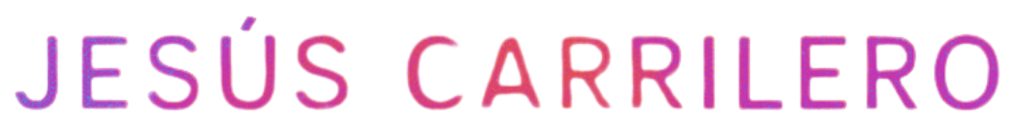
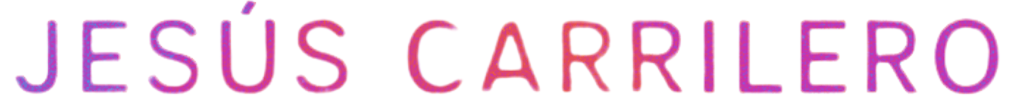
Actualización: Educación, Certificaciones, Corrección de Idioma y Diseño del Header

diff --git a/index.html b/index.html
@@ -30,15 +30,18 @@
                 </a>
                 <img src="assets/img/rotulo.png" alt="Jesús Carrilero Rótulo" class="rotulo-img">
             </div>
-            <nav class="main-nav">
-                <a href="#home" class="nav-link" data-lang-es="Inicio" data-lang-en="Home">Inicio</a>
-                <a href="#about" class="nav-link" data-lang-es="Sobre Mí" data-lang-en="About">Sobre Mí</a>
-                <a href="#education" class="nav-link" data-lang-es="Educación" data-lang-en="Education">Educación</a>
-                <a href="#skills" class="nav-link" data-lang-es="Habilidades" data-lang-en="Skills">Habilidades</a>
-                <a href="#experience" class="nav-link" data-lang-es="Experiencia" data-lang-en="Experience">Experiencia</a>
-                <a href="#projects" class="nav-link" data-lang-es="Proyectos" data-lang-en="Projects">Proyectos</a>
-                <a href="#contact" class="nav-link" data-lang-es="Contacto" data-lang-en="Contact">Contacto</a>
-            </nav>
+            <div class="nav-container">
+                <nav class="main-nav">
+                    <a href="#home" class="nav-link" data-lang-es="Inicio" data-lang-en="Home">Inicio</a>
+                    <a href="#about" class="nav-link" data-lang-es="Sobre Mí" data-lang-en="About">Sobre Mí</a>
+                    <a href="#education" class="nav-link" data-lang-es="Educación" data-lang-en="Education">Educación</a>
+                    <a href="#certifications" class="nav-link" data-lang-es="Certificaciones" data-lang-en="Certifications">Certificaciones</a>
+                    <a href="#skills" class="nav-link" data-lang-es="Habilidades" data-lang-en="Skills">Habilidades</a>
+                    <a href="#experience" class="nav-link" data-lang-es="Experiencia" data-lang-en="Experience">Experiencia</a>
+                    <a href="#projects" class="nav-link" data-lang-es="Proyectos" data-lang-en="Projects">Proyectos</a>
+                    <a href="#contact" class="nav-link" data-lang-es="Contacto" data-lang-en="Contact">Contacto</a>
+                </nav>
+            </div>
             <div class="header-controls">
                 <div class="language-selector">
                     <button class="lang-btn" data-lang="es">
@@ -62,7 +65,7 @@
     <section id="home" class="hero-section">
         <div class="container">
             <div class="hero-content">
-                <img src="assets/img/profile.jpg" alt="Jesús Carrilero" class="profile-img fade-in">
+                <img src="assets/img/profile.jpeg" alt="Jesús Carrilero" class="profile-img fade-in">
                 <h1 class="hero-title fade-in" data-lang-es="Hola, soy Jesús Carrilero" data-lang-en="Hi, I'm Jesús Carrilero">Hola, soy Jesús Carrilero</h1>
                 <p class="hero-subtitle fade-in" data-lang-es="Desarrollador Full-Stack | Experto en Automatizaciones e IA" data-lang-en="Full-Stack Developer | Expert in Automation and AI">Desarrollador Full-Stack | Experto en Automatizaciones e IA</p>
                 <a href="#projects" class="btn btn-primary fade-in" data-lang-es="Ver Proyectos" data-lang-en="View Projects">Ver Proyectos</a>
@@ -75,8 +78,8 @@
         <div class="container">
             <h2 class="section-title fade-in" data-lang-es="Sobre Mí" data-lang-en="About Me">Sobre Mí</h2>
             <div class="about-content fade-in">
-                <p data-lang-es="Soy un desarrollador Full-Stack con más de 5 años de experiencia en el desarrollo de aplicaciones web modernas y escalables. Me apasiona resolver problemas complejos, aprender nuevas tecnologías y crear soluciones innovadoras que impacten positivamente a los usuarios. Estoy especializado en tecnologías como React, Node.js y MongoDB, y tengo experiencia trabajando en equipos ágiles en entornos profesionales. Además, soy experto en automatizaciones y herramientas de IA, utilizando herramientas como n8n y Make para optimizar flujos de trabajo, y he implementado soluciones de IA con Python y herramientas como ChatGPT para mejorar procesos empresariales." data-lang-en="I am a Full-Stack Developer with over 5 years of experience in building modern and scalable web applications. I am passionate about solving complex problems, learning new technologies, and creating innovative solutions that positively impact users. I specialize in technologies like React, Node.js, and MongoDB, and have experience working in agile teams in professional environments. Additionally, I am an expert in automation and AI tools, using platforms like n8n and Make to streamline workflows, and I have implemented AI solutions with Python and tools like ChatGPT to enhance business processes.">
-                    Soy un desarrollador Full-Stack con más de 5 años de experiencia en el desarrollo de aplicaciones web modernas y escalables. Me apasiona resolver problemas complejos, aprender nuevas tecnologías y crear soluciones innovadoras que impacten positivamente a los usuarios. Estoy especializado en tecnologías como React, Node.js y MongoDB, y tengo experiencia trabajando en equipos ágiles en entornos profesionales. Además, soy experto en automatizaciones y herramientas de IA, utilizando herramientas como n8n y Make para optimizar flujos de trabajo, y he implementado soluciones de IA con Python y herramientas como ChatGPT para mejorar procesos empresariales.
+                <p data-lang-es="Soy un desarrollador Full-Stack con más de 5 años de experiencia en el desarrollo de aplicaciones web modernas y escalables. Me apasiona resolver problemas complejos, aprender nuevas tecnologías y crear soluciones innovadoras que impacten positivamente a los usuarios. Estoy especializado en tecnologías como React, Node.js y MongoDB, y tengo experiencia trabajando en equipos ágiles en entornos profesionales. Además, soy experto en automatizaciones y herramientas de IA, utilizando herramientas como n8n y Make para optimizar flujos de trabajo, y he implementado soluciones de IA con Python y herramientas como ChatGPT para mejorar procesos empresariales. También he explorado la intersección entre tecnología y trading, aplicando mis conocimientos en automatización para optimizar estrategias de trading." data-lang-en="I am a Full-Stack Developer with over 5 years of experience in building modern and scalable web applications. I am passionate about solving complex problems, learning new technologies, and creating innovative solutions that positively impact users. I specialize in technologies like React, Node.js, and MongoDB, and have experience working in agile teams in professional environments. Additionally, I am an expert in automation and AI tools, using platforms like n8n and Make to streamline workflows, and I have implemented AI solutions with Python and tools like ChatGPT to enhance business processes. I have also explored the intersection of technology and trading, applying my automation skills to optimize trading strategies.">
+                    Soy un desarrollador Full-Stack con más de 5 años de experiencia en el desarrollo de aplicaciones web modernas y escalables. Me apasiona resolver problemas complejos, aprender nuevas tecnologías y crear soluciones innovadoras que impacten positivamente a los usuarios. Estoy especializado en tecnologías como React, Node.js y MongoDB, y tengo experiencia trabajando en equipos ágiles en entornos profesionales. Además, soy experto en automatizaciones y herramientas de IA, utilizando herramientas como n8n y Make para optimizar flujos de trabajo, y he implementado soluciones de IA con Python y herramientas como ChatGPT para mejorar procesos empresariales. También he explorado la intersección entre tecnología y trading, aplicando mis conocimientos en automatización para optimizar estrategias de trading.
                 </p>
             </div>
         </div>
@@ -88,11 +91,38 @@
             <h2 class="section-title fade-in" data-lang-es="Educación" data-lang-en="Education">Educación</h2>
             <div class="education-list">
                 <div class="education-item fade-in">
-                    <img src="https://images.unsplash.com/photo-1600585154340-be6161a56a0c?ixlib=rb-4.0.3&auto=format&fit=crop&w=100&h=100&q=80" alt="Universidad de Castilla-La Mancha" class="education-img">
+                    <img src="https://images.unsplash.com/photo-1600585154340-be6161a56a0c?ixlib=rb-4.0.3&auto=format&fit=crop&w=100&h=100&q=80" alt="Universae" class="education-img">
                     <div class="education-content">
-                        <h3 class="education-title" data-lang-es="Grado en Ingeniería Informática" data-lang-en="Bachelor's Degree in Computer Engineering">Grado en Ingeniería Informática</h3>
-                        <p class="education-institution">Universidad de Castilla-La Mancha, Albacete</p>
-                        <p class="education-date">2014 - 2018</p>
+                        <h3 class="education-title" data-lang-es="Ciclo Formativo de Grado Superior en Desarrollo de Aplicaciones Multiplataforma y Desarrollo de Aplicaciones Web" data-lang-en="Higher Vocational Training in Multiplatform Application Development and Web Application Development">Ciclo Formativo de Grado Superior en Desarrollo de Aplicaciones Multiplataforma y Desarrollo de Aplicaciones Web</h3>
+                        <p class="education-institution" data-lang-es="Universae, Albacete" data-lang-en="Universae, Albacete">Universae, Albacete</p>
+                        <p class="education-date" data-lang-es="2018 - 2020" data-lang-en="2018 - 2020">2018 - 2020</p>
+                    </div>
+                </div>
+            </div>
+        </div>
+    </section>
+
+    <!-- Certifications Section -->
+    <section id="certifications" class="certifications-section">
+        <div class="container">
+            <h2 class="section-title fade-in" data-lang-es="Certificaciones" data-lang-en="Certifications">Certificaciones</h2>
+            <div class="certifications-list">
+                <div class="certification-item fade-in">
+                    <img src="https://images.unsplash.com/photo-1666875753105-c43a6fb62548?ixlib=rb-4.0.3&auto=format&fit=crop&w=100&h=100&q=80" alt="Tradeando.net" class="certification-img">
+                    <div class="certification-content">
+                        <h3 class="certification-title" data-lang-es="Curso de Swing Trading" data-lang-en="Swing Trading Course">Curso de Swing Trading</h3>
+                        <p class="certification-institution" data-lang-es="Tradeando.net" data-lang-en="Tradeando.net">Tradeando.net</p>
+                        <p class="certification-date" data-lang-es="2022" data-lang-en="2022">2022</p>
+                        <p class="certification-desc" data-lang-es="Aprendí estrategias de Swing Trading y cómo automatizar procesos de análisis de mercado utilizando herramientas como Python." data-lang-en="Learned Swing Trading strategies and how to automate market analysis processes using tools like Python.">Aprendí estrategias de Swing Trading y cómo automatizar procesos de análisis de mercado utilizando herramientas como Python.</p>
+                    </div>
+                </div>
+                <div class="certification-item fade-in">
+                    <img src="https://images.unsplash.com/photo-1666875753105-c43a6fb62548?ixlib=rb-4.0.3&auto=format&fit=crop&w=100&h=100&q=80" alt="Tradeando.net" class="certification-img">
+                    <div class="certification-content">
+                        <h3 class="certification-title" data-lang-es="Curso de Trading Intradía" data-lang-en="Intraday Trading Course">Curso de Trading Intradía</h3>
+                        <p class="certification-institution" data-lang-es="Tradeando.net" data-lang-en="Tradeando.net">Tradeando.net</p>
+                        <p class="certification-date" data-lang-es="2022" data-lang-en="2022">2022</p>
+                        <p class="certification-desc" data-lang-es="Adquirí habilidades en trading intradía y exploré la automatización de operaciones mediante scripts personalizados." data-lang-en="Acquired skills in intraday trading and explored automation of trading operations using custom scripts.">Adquirí habilidades en trading intradía y exploré la automatización de operaciones mediante scripts personalizados.</p>
                     </div>
                 </div>
             </div>
@@ -161,8 +191,8 @@
                     <img src="https://images.unsplash.com/photo-1516321318423-f06f85e504b3?ixlib=rb-4.0.3&auto=format&fit=crop&w=100&h=100&q=80" alt="Tech Solutions" class="experience-img">
                     <div class="experience-content">
                         <h3 class="experience-title" data-lang-es="Desarrollador Full-Stack" data-lang-en="Full-Stack Developer">Desarrollador Full-Stack</h3>
-                        <p class="experience-company">Tech Solutions</p>
-                        <p class="experience-date">2020 - Presente</p>
+                        <p class="experience-company" data-lang-es="Tech Solutions" data-lang-en="Tech Solutions">Tech Solutions</p>
+                        <p class="experience-date" data-lang-es="2020 - Presente" data-lang-en="2020 - Present">2020 - Presente</p>
                         <p class="experience-desc" data-lang-es="Lideré el desarrollo de aplicaciones web escalables utilizando React y Node.js, integrando APIs y optimizando el rendimiento. Implementé automatizaciones con n8n y Make para mejorar procesos internos, y utilicé herramientas de IA como ChatGPT para optimizar flujos de trabajo." data-lang-en="Led the development of scalable web applications using React and Node.js, integrating APIs and optimizing performance. Implemented automations with n8n and Make to improve internal processes, and used AI tools like ChatGPT to optimize workflows.">
                             Lideré el desarrollo de aplicaciones web escalables utilizando React y Node.js, integrando APIs y optimizando el rendimiento. Implementé automatizaciones con n8n y Make para mejorar procesos internos, y utilicé herramientas de IA como ChatGPT para optimizar flujos de trabajo.
                         </p>
@@ -172,8 +202,8 @@
                     <img src="https://images.unsplash.com/photo-1519389950473-47ba0277781c?ixlib=rb-4.0.3&auto=format&fit=crop&w=100&h=100&q=80" alt="Web Innovate" class="experience-img">
                     <div class="experience-content">
                         <h3 class="experience-title" data-lang-es="Desarrollador Frontend" data-lang-en="Frontend Developer">Desarrollador Frontend</h3>
-                        <p class="experience-company">Web Innovate</p>
-                        <p class="experience-date">2018 - 2020</p>
+                        <p class="experience-company" data-lang-es="Web Innovate" data-lang-en="Web Innovate">Web Innovate</p>
+                        <p class="experience-date" data-lang-es="2018 - 2020" data-lang-en="2018 - 2020">2018 - 2020</p>
                         <p class="experience-desc" data-lang-es="Desarrollé interfaces de usuario interactivas con Vue.js y optimicé la experiencia del usuario mediante pruebas A/B. Colaboré en la integración de servicios backend con REST APIs." data-lang-en="Developed interactive user interfaces with Vue.js and optimized user experience through A/B testing. Collaborated on integrating backend services with REST APIs.">
                             Desarrollé interfaces de usuario interactivas con Vue.js y optimicé la experiencia del usuario mediante pruebas A/B. Colaboré en la integración de servicios backend con REST APIs.
                         </p>
@@ -231,7 +261,7 @@
                     <p><i class="fas fa-map-marker-alt"></i> Albacete, España</p>
                     <p><i class="fas fa-phone"></i> +34 616 460 352</p>
                     <p><i class="fas fa-envelope"></i> jesuscarrilero3@gmail.com</p>
-                    <p><i class="fab fa-linkedin"></i> <a href="https://linkedin.com/in/tu-perfil" target="_blank">LinkedIn</a></p>
+                    <p><i class="fab fa-linkedin"></i> <a href="https://linkedin.com/in/tu-perfil" target="_blank" data-lang-es="LinkedIn" data-lang-en="LinkedIn">LinkedIn</a></p>
                 </div>
                 <div class="contact-form fade-in">
                     <div class="form-group">

diff --git a/assets/css/styles.css b/assets/css/styles.css
@@ -60,6 +60,7 @@ body.dark .header {
     display: flex;
     align-items: center;
     gap: 15px;
+    margin-left: -10px; /* Mueve el logo y rótulo más a la izquierda */
 }
 
 .logo {
@@ -70,9 +71,23 @@ body.dark .header {
     max-height: 40px;
 }
 
+.nav-container {
+    flex-grow: 1;
+    display: flex;
+    justify-content: center;
+}
+
 .main-nav {
     display: flex;
     gap: 25px;
+    background-color: rgba(0, 123, 255, 0.05);
+    padding: 10px 20px;
+    border-radius: 25px;
+    box-shadow: 0 2px 5px rgba(0, 0, 0, 0.05);
+}
+
+body.dark .main-nav {
+    background-color: rgba(102, 176, 255, 0.1);
 }
 
 .nav-link {
@@ -113,6 +128,7 @@ body.dark .nav-link::after {
     display: flex;
     align-items: center;
     gap: 15px;
+    margin-right: -10px; /* Mueve los controles más a la derecha */
 }
 
 .language-selector {
@@ -326,6 +342,81 @@ body.dark .education-institution {
 
 body.dark .education-date {
     color: #888;
+}
+
+/* Certifications Section */
+.certifications-section {
+    padding: 80px 0;
+    background-color: #fff;
+}
+
+body.dark .certifications-section {
+    background-color: #2c2c2c;
+}
+
+.certifications-list {
+    display: flex;
+    flex-direction: column;
+    gap: 30px;
+}
+
+.certification-item {
+    display: flex;
+    align-items: center;
+    background-color: #f5f5f5;
+    border-radius: 10px;
+    padding: 20px;
+    box-shadow: 0 4px 15px rgba(0, 0, 0, 0.1);
+}
+
+body.dark .certification-item {
+    background-color: #3a3a3a;
+}
+
+.certification-img {
+    width: 100px;
+    height: 100px;
+    border-radius: 50%;
+    margin-right: 20px;
+    object-fit: cover;
+}
+
+.certification-content {
+    flex: 1;
+}
+
+.certification-title {
+    font-size: 24px;
+    font-weight: 600;
+    margin-bottom: 5px;
+}
+
+.certification-institution {
+    font-size: 18px;
+    color: #666;
+    margin-bottom: 5px;
+}
+
+body.dark .certification-institution {
+    color: #b0b0b0;
+}
+
+.certification-date {
+    font-size: 16px;
+    color: #999;
+    margin-bottom: 10px;
+}
+
+body.dark .certification-date {
+    color: #888;
+}
+
+.certification-desc {
+    color: #666;
+}
+
+body.dark .certification-desc {
+    color: #b0b0b0;
 }
 
 /* Skills Section */
@@ -719,6 +810,21 @@ body.dark .back-to-top {
         display: block;
     }
 
+    .header .container {
+        flex-wrap: wrap;
+    }
+
+    .nav-container {
+        width: 100%;
+        justify-content: flex-start;
+    }
+
+    .main-nav {
+        background-color: transparent;
+        box-shadow: none;
+        padding: 0;
+    }
+
     .hero-section {
         padding-top: 100px;
     }
@@ -739,6 +845,7 @@ body.dark .back-to-top {
     .logo-container {
         flex-direction: column;
         gap: 5px;
+        margin-left: 0;
     }
 
     .logo,
@@ -746,14 +853,20 @@ body.dark .back-to-top {
         max-height: 30px;
     }
 
+    .header-controls {
+        margin-right: 0;
+    }
+
     .experience-item,
-    .education-item {
+    .education-item,
+    .certification-item {
         flex-direction: column;
         text-align: center;
     }
 
     .experience-img,
-    .education-img {
+    .education-img,
+    .certification-img {
         margin: 0 auto 20px;
     }
 

diff --git a/assets/js/language.js b/assets/js/language.js
@@ -17,6 +17,9 @@ document.addEventListener('DOMContentLoaded', () => {
                 // Dispatch language change event for CV link update
                 const event = new CustomEvent('languageChange', { detail: lang });
                 document.dispatchEvent(event);
+
+                // Update HTML lang attribute
+                document.documentElement.lang = lang;
             }
         });
     });
@@ -27,12 +30,6 @@ document.addEventListener('DOMContentLoaded', () => {
             if (text) {
                 if (element.tagName === 'INPUT' || element.tagName === 'TEXTAREA') {
                     element.placeholder = text;
-                } else if (element.tagName === 'H3' && element.closest('.skill-card')) {
-                    // Skip skill-card h3 elements with icons
-                    const skillText = element.getAttribute(`data-lang-${lang}`);
-                    if (skillText) {
-                        element.textContent = skillText;
-                    }
                 } else {
                     element.textContent = text;
                 }
